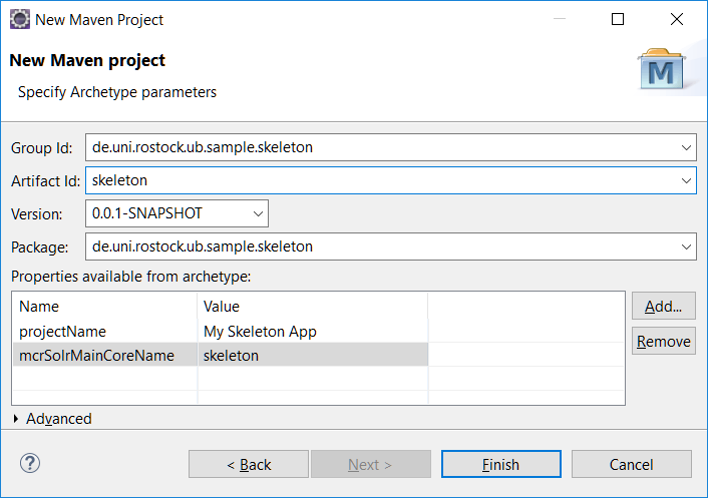
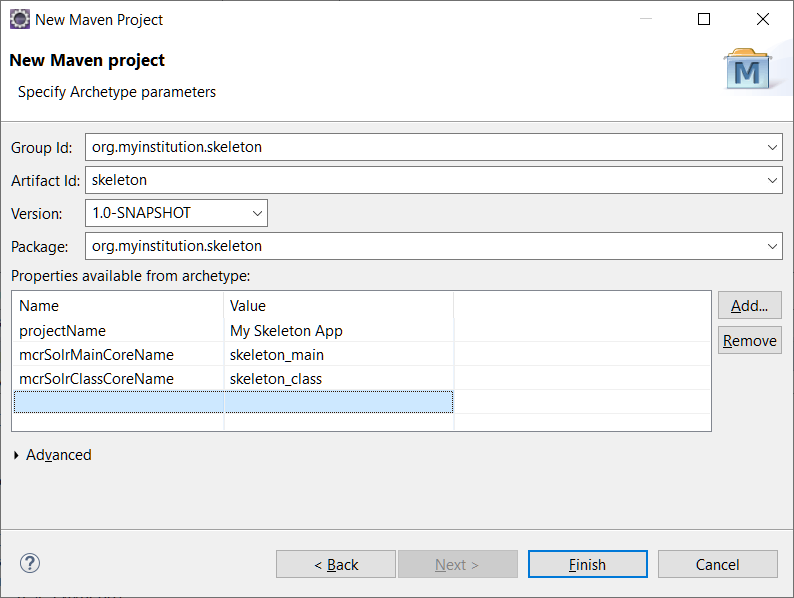
update skeleton install docs to 2020.06

diff --git a/mycore.org/content/de/documentation/getting_started/gs_ma_install.html b/mycore.org/content/de/documentation/getting_started/gs_ma_install.html
@@ -2,18 +2,18 @@
 ---
 
 title: "Maven Archetype als Basis für neue MyCoRe Anwendungen"
-mcr_version: ['2018.06', '2019.06']
+mcr_version: ['2019.06', '2020.06']
 author: ['Robert Stephan', 'Kathleen Neumann']
 description: "
       Zur Entwicklung einer eigenen MyCoRe-Anwendung stellen wir ein Anwendungsgerüst
       (Maven-Archetype) zur Verfügung, das als Grundlage für eigene Anwendung dienen kann.
     "
-date: "2019-11-05"
+date: "2020-07-27"
 
 ---
 <p>
   Bis zur Version 2017.06 diente die MyCoRe-Anwendung „Skeleton“ als
-  Template für neue Anwendungen. Mit dem Maven-Archetype bieten wir nun eine fortgeschrittenere Lösung an. 
+  Template für neue Anwendungen. Mit dem Maven-Archetype bieten wir nun eine fortgeschrittenere Lösung an.<br /> 
   Nach Abfrage von verschiedenen Parametern generiert es eine neue MyCoRe-Anwendung, 
   in der bereits die typische Ordnerstruktur erzeugt und eine Reihe von Voreinstellungen gesetzt sind.
   Dadurch entfällt das bisher notwendige Umbenennen von Dateien und Ordner sowie das Suchen und Ersetzen 
@@ -52,8 +52,7 @@ mvn clean install
    Danach wechselt man in dieses Verzeichnis und ruft das Maven-Kommando zum Erstellen der Anwendung auf:
 </p>
    {{< highlight shell "linenos=table">}}
-mvn archetype:generate -DarchetypeGroupId=org.mycore.skeleton -DarchetypeArtifactId=mycore-skeleton-archetype -DarchetypeVersion={version}-SNAPSHOT
-  {{< /highlight >}}    
+mvn archetype:generate -DarchetypeGroupId=org.mycore.skeleton -DarchetypeArtifactId=mycore-skeleton-archetype -DarchetypeVersionId=2020.06.0-SNAPSHOT{{< /highlight >}}    
 
 <p>Das Kommando fragt dann die folgenden Parameter ab:</p>
 <table class="table w-75 mx-auto">
@@ -87,14 +86,17 @@ mvn archetype:generate -DarchetypeGroupId=org.mycore.skeleton -DarchetypeArtifac
   </tr>  
 </table>      
 
-<p>Die drei ersten Parameter werden in den zu erstellenden <code>*.pom</code> Dateien verwendet.
-<code>package</code> ist das Root-Package für die zu erstellenden Java-Klassen. <code>mcrSolrMainCoreName</code>
-bezeichnet den Namen (URL-Pfad auf dem SOLR-Server) des Haupt-Solr-Kerns für die Anwendung. Aus <code>projectName</code>
-wird u.a. der Titel der Webanwendung abgeleitet.</p>
+<ul>
+  <li>Die drei ersten Parameter werden in den zu erstellenden Maven <code>*.pom</code> - Dateien verwendet.</li>
+  <li><code>package</code> ist das Root-Package für die zu erstellenden Java-Klassen.</li>
+  <li><code>mcrSolrMainCoreName</code> bezeichnet den Namen (URL-Pfad auf dem SOLR-Server) des Haupt-Solr-Kerns der Anwendung.</li>
+  <li><code>mcrSolrClassCoreName</code> bezeichnet den Namen (URL-Pfad auf dem SOLR-Server) des Solr-Kerns für Klassifikationen der Anwendung.</li>
+  <li>Aus <code>projectName</code> wird der Titel der Webanwendung abgeleitet.</li>
+</ul>
   
 <h3>b) als neues Eclipse-Projekt</h3>
 <p>In der Entwicklungsumgebung Eclipse kann eine neue Anwendung als Eclipse-Projekt über einen Wizzard erstellt werden.</p>
-<p>Der Wizzard wird über <code>New &gt; Maven Project</code> gestartet.</p>
+<p>Der Wizzard wird über <code>File &gt; New &gt; Maven Project</code> gestartet.</p>
 
 {{< mcr-figure src="/images/documentation/getting_started/eclipse_mvn_archetype_wizzard01.png" class="text-center" label="Abbildung" caption="Eclipse - New Maven project starten" alt="Maven Archetype auswählen" width="550px" height="" />}}
 
